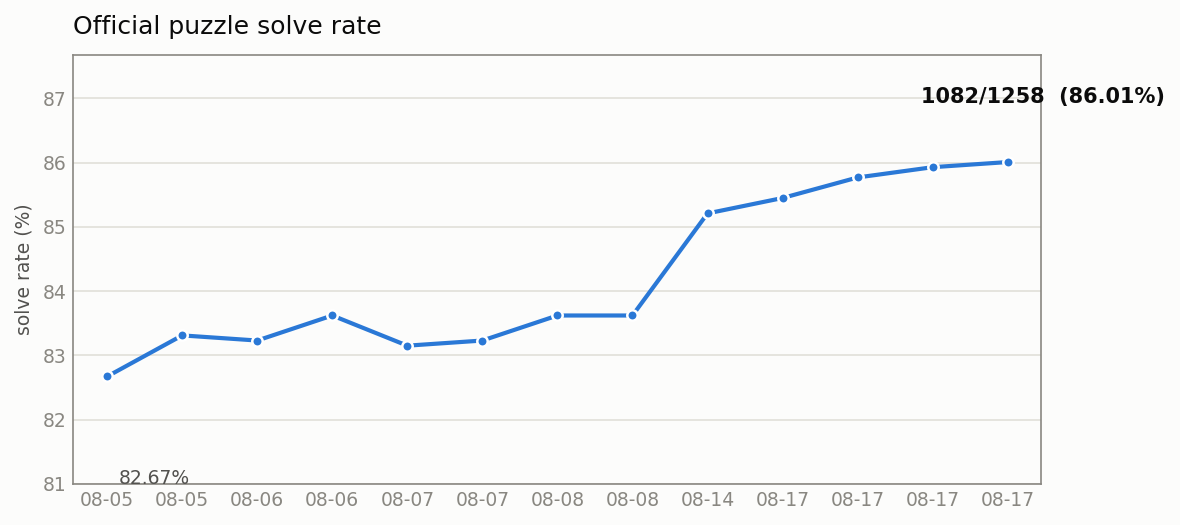
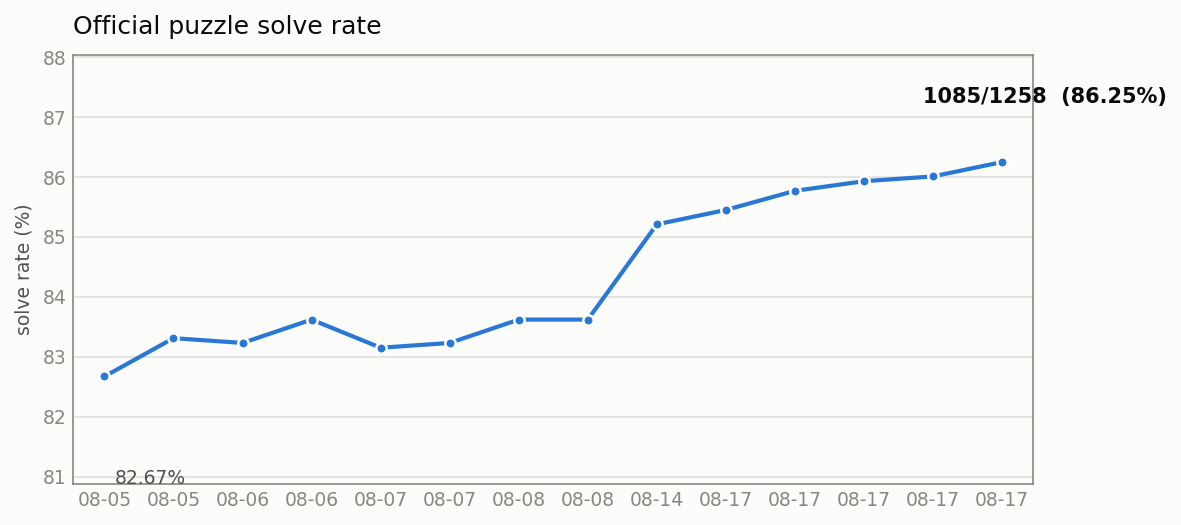
docs(solver-history): update trend to 1085/1258 (edge_csp iter 7)
differentiation + boxy/non_boxy propagation (PR #47) added +3 solves via
edge_csp (0690/0971/0984). Progress 1082 → 1085/1258 (86.25%).
Re-rendered PNG + /trend/ HTML.

Changed region(s): [[0.0305, 0.0914, 1.0, 0.9752], [0.1525, 0.0305, 0.3356, 0.061]]

diff --git a/web/public/trend/index.html b/web/public/trend/index.html
@@ -68,93 +68,98 @@ a { color: var(--series); }
   <h1>官方谜题求解能力变化</h1>
   <p class="sub">官方谜题 (puzzles/official, 排除 -answer 目录) · 共 1258 题 · 数据源 docs/solver-history.json</p>
   <div class="hero">
-    <span class="num">86.01%</span>
-    <span class="unit">1082 / 1258 题解出</span>
+    <span class="num">86.25%</span>
+    <span class="unit">1085 / 1258 题解出</span>
   </div>
-  <span class="delta">较上次 ▲ <span class="up">0.08%</span>（1082/1258）</span>
+  <span class="delta">较上次 ▲ <span class="up">0.24%</span>（1085/1258）</span>
   <div id="chart-wrap" style="position:relative"><div class="tooltip" id="tooltip" style="visibility:hidden"></div><svg id="chart" viewBox="0 0 840 380" role="img" aria-label="官方题求解率变化曲线">
 <line class="grid" x1="60" y1="340.0" x2="816" y2="340.0"/>
-<text class="axis" x="50" y="344.0" text-anchor="end">81.5%</text>
+<text class="axis" x="50" y="344.0" text-anchor="end">81.4%</text>
 <line class="grid" x1="60" y1="234.7" x2="816" y2="234.7"/>
 <text class="axis" x="50" y="238.7" text-anchor="end">83.4%</text>
 <line class="grid" x1="60" y1="129.3" x2="816" y2="129.3"/>
-<text class="axis" x="50" y="133.3" text-anchor="end">85.3%</text>
+<text class="axis" x="50" y="133.3" text-anchor="end">85.5%</text>
 <line class="grid" x1="60" y1="24.0" x2="816" y2="24.0"/>
-<text class="axis" x="50" y="28.0" text-anchor="end">87.2%</text>
-<polyline class="line" points="60.0,274.9 123.0,239.3 186.0,243.8 249.0,222.1 312.0,248.2 375.0,243.8 438.0,222.1 501.0,222.1 564.0,133.6 627.0,120.2 690.0,102.4 753.0,93.5 816.0,89.1" fill="none"/>
+<text class="axis" x="50" y="28.0" text-anchor="end">87.5%</text>
+<polyline class="line" points="60.0,274.9 118.2,241.7 176.3,245.9 234.5,225.6 292.6,250.0 350.8,245.9 408.9,225.6 467.1,225.6 525.2,143.1 583.4,130.6 641.5,114.0 699.7,105.7 757.8,101.5 816.0,89.1" fill="none"/>
 <circle class="point" cx="60.0" cy="274.9" r="4.5">
 <title>2026-08-05  33d32c5
 1040/1258  (82.67%)</title>
 </circle>
 <text class="axis" x="60.0" y="366" text-anchor="middle">08-05</text>
-<circle class="point" cx="123.0" cy="239.3" r="4.5">
+<circle class="point" cx="118.2" cy="241.7" r="4.5">
 <title>2026-08-05  4733f59
 1048/1258  (83.31%)</title>
 </circle>
-<text class="axis" x="123.0" y="366" text-anchor="middle">08-05</text>
-<circle class="point" cx="186.0" cy="243.8" r="4.5">
+<text class="axis" x="118.2" y="366" text-anchor="middle">08-05</text>
+<circle class="point" cx="176.3" cy="245.9" r="4.5">
 <title>2026-08-06  7e569e7
 1047/1258  (83.23%)</title>
 </circle>
-<text class="axis" x="186.0" y="366" text-anchor="middle">08-06</text>
-<circle class="point" cx="249.0" cy="222.1" r="4.5">
+<text class="axis" x="176.3" y="366" text-anchor="middle">08-06</text>
+<circle class="point" cx="234.5" cy="225.6" r="4.5">
 <title>2026-08-06  dfadfe3
 1052/1258  (83.62%)</title>
 </circle>
-<text class="axis" x="249.0" y="366" text-anchor="middle">08-06</text>
-<circle class="point" cx="312.0" cy="248.2" r="4.5">
+<text class="axis" x="234.5" y="366" text-anchor="middle">08-06</text>
+<circle class="point" cx="292.6" cy="250.0" r="4.5">
 <title>2026-08-07  6169df3
 1046/1258  (83.15%)</title>
 </circle>
-<text class="axis" x="312.0" y="366" text-anchor="middle">08-07</text>
-<circle class="point" cx="375.0" cy="243.8" r="4.5">
+<text class="axis" x="292.6" y="366" text-anchor="middle">08-07</text>
+<circle class="point" cx="350.8" cy="245.9" r="4.5">
 <title>2026-08-07  cd40cab
 1047/1258  (83.23%)</title>
 </circle>
-<text class="axis" x="375.0" y="366" text-anchor="middle">08-07</text>
-<circle class="point" cx="438.0" cy="222.1" r="4.5">
+<text class="axis" x="350.8" y="366" text-anchor="middle">08-07</text>
+<circle class="point" cx="408.9" cy="225.6" r="4.5">
 <title>2026-08-08  bd2f5f5
 1052/1258  (83.62%)</title>
 </circle>
-<text class="axis" x="438.0" y="366" text-anchor="middle">08-08</text>
-<circle class="point" cx="501.0" cy="222.1" r="4.5">
+<text class="axis" x="408.9" y="366" text-anchor="middle">08-08</text>
+<circle class="point" cx="467.1" cy="225.6" r="4.5">
 <title>2026-08-08  shape-cap-aog
 1052/1258  (83.62%)</title>
 </circle>
-<text class="axis" x="501.0" y="366" text-anchor="middle">08-08</text>
-<circle class="point" cx="564.0" cy="133.6" r="4.5">
+<text class="axis" x="467.1" y="366" text-anchor="middle">08-08</text>
+<circle class="point" cx="525.2" cy="143.1" r="4.5">
 <title>2026-08-14  edge-csp-solver
 1072/1258  (85.21%)</title>
 </circle>
-<text class="axis" x="564.0" y="366" text-anchor="middle">08-14</text>
-<circle class="point" cx="627.0" cy="120.2" r="4.5">
+<text class="axis" x="525.2" y="366" text-anchor="middle">08-14</text>
+<circle class="point" cx="583.4" cy="130.6" r="4.5">
 <title>2026-08-17  8758659
 1075/1258  (85.45%)</title>
 </circle>
-<text class="axis" x="627.0" y="366" text-anchor="middle">08-17</text>
-<circle class="point" cx="690.0" cy="102.4" r="4.5">
+<text class="axis" x="583.4" y="366" text-anchor="middle">08-17</text>
+<circle class="point" cx="641.5" cy="114.0" r="4.5">
 <title>2026-08-17  dbe2f65
 1079/1258  (85.77%)</title>
 </circle>
-<text class="axis" x="690.0" y="366" text-anchor="middle">08-17</text>
-<circle class="point" cx="753.0" cy="93.5" r="4.5">
+<text class="axis" x="641.5" y="366" text-anchor="middle">08-17</text>
+<circle class="point" cx="699.7" cy="105.7" r="4.5">
 <title>2026-08-17  04ea400
 1081/1258  (85.93%)</title>
 </circle>
-<text class="axis" x="753.0" y="366" text-anchor="middle">08-17</text>
-<circle class="point" cx="816.0" cy="89.1" r="4.5">
+<text class="axis" x="699.7" y="366" text-anchor="middle">08-17</text>
+<circle class="point" cx="757.8" cy="101.5" r="4.5">
 <title>2026-08-17  d3d9c52
 1082/1258  (86.01%)</title>
+</circle>
+<text class="axis" x="757.8" y="366" text-anchor="middle">08-17</text>
+<circle class="point" cx="816.0" cy="89.1" r="4.5">
+<title>2026-08-17  150005f
+1085/1258  (86.25%)</title>
 </circle>
 <text class="axis" x="816.0" y="366" text-anchor="middle">08-17</text>
 <line class="crosshair" id="crosshair" y1="0" y2="0" visibility="hidden"/>
 </svg></div>
-  <table><thead><tr><th>日期</th><th>commit</th><th class='num'>通过</th><th class='num'>占比</th></tr></thead><tbody><tr class="latest"><td>2026-08-17</td><td>d3d9c52</td><td class="num">1082/1258</td><td class="num">86.01%</td></tr><tr><td>2026-08-17</td><td>04ea400</td><td class="num">1081/1258</td><td class="num">85.93%</td></tr><tr><td>2026-08-17</td><td>dbe2f65</td><td class="num">1079/1258</td><td class="num">85.77%</td></tr><tr><td>2026-08-17</td><td>8758659</td><td class="num">1075/1258</td><td class="num">85.45%</td></tr><tr><td>2026-08-14</td><td>edge-csp-solver</td><td class="num">1072/1258</td><td class="num">85.21%</td></tr><tr><td>2026-08-08</td><td>shape-cap-aog</td><td class="num">1052/1258</td><td class="num">83.62%</td></tr><tr><td>2026-08-08</td><td>bd2f5f5</td><td class="num">1052/1258</td><td class="num">83.62%</td></tr><tr><td>2026-08-07</td><td>cd40cab</td><td class="num">1047/1258</td><td class="num">83.23%</td></tr><tr><td>2026-08-07</td><td>6169df3</td><td class="num">1046/1258</td><td class="num">83.15%</td></tr><tr><td>2026-08-06</td><td>dfadfe3</td><td class="num">1052/1258</td><td class="num">83.62%</td></tr><tr><td>2026-08-06</td><td>7e569e7</td><td class="num">1047/1258</td><td class="num">83.23%</td></tr><tr><td>2026-08-05</td><td>4733f59</td><td class="num">1048/1258</td><td class="num">83.31%</td></tr><tr><td>2026-08-05</td><td>33d32c5</td><td class="num">1040/1258</td><td class="num">82.67%</td></tr></tbody></table>
+  <table><thead><tr><th>日期</th><th>commit</th><th class='num'>通过</th><th class='num'>占比</th></tr></thead><tbody><tr class="latest"><td>2026-08-17</td><td>150005f</td><td class="num">1085/1258</td><td class="num">86.25%</td></tr><tr><td>2026-08-17</td><td>d3d9c52</td><td class="num">1082/1258</td><td class="num">86.01%</td></tr><tr><td>2026-08-17</td><td>04ea400</td><td class="num">1081/1258</td><td class="num">85.93%</td></tr><tr><td>2026-08-17</td><td>dbe2f65</td><td class="num">1079/1258</td><td class="num">85.77%</td></tr><tr><td>2026-08-17</td><td>8758659</td><td class="num">1075/1258</td><td class="num">85.45%</td></tr><tr><td>2026-08-14</td><td>edge-csp-solver</td><td class="num">1072/1258</td><td class="num">85.21%</td></tr><tr><td>2026-08-08</td><td>shape-cap-aog</td><td class="num">1052/1258</td><td class="num">83.62%</td></tr><tr><td>2026-08-08</td><td>bd2f5f5</td><td class="num">1052/1258</td><td class="num">83.62%</td></tr><tr><td>2026-08-07</td><td>cd40cab</td><td class="num">1047/1258</td><td class="num">83.23%</td></tr><tr><td>2026-08-07</td><td>6169df3</td><td class="num">1046/1258</td><td class="num">83.15%</td></tr><tr><td>2026-08-06</td><td>dfadfe3</td><td class="num">1052/1258</td><td class="num">83.62%</td></tr><tr><td>2026-08-06</td><td>7e569e7</td><td class="num">1047/1258</td><td class="num">83.23%</td></tr><tr><td>2026-08-05</td><td>4733f59</td><td class="num">1048/1258</td><td class="num">83.31%</td></tr><tr><td>2026-08-05</td><td>33d32c5</td><td class="num">1040/1258</td><td class="num">82.67%</td></tr></tbody></table>
   <p class="sub" style="margin-top:24px">曲线纵轴为缩放后的求解率区间（非 0–100），
   以突出小幅变化；完整数值见下表与仓库内 <code>docs/solver-history.json</code>。</p>
 </div>
 <script>
-const DATA = [{"date": "2026-08-05", "commit": "33d32c5", "passed": 1040, "total": 1258, "pct": 82.67}, {"date": "2026-08-05", "commit": "4733f59", "passed": 1048, "total": 1258, "pct": 83.31}, {"date": "2026-08-06", "commit": "7e569e7", "passed": 1047, "total": 1258, "pct": 83.23}, {"date": "2026-08-06", "commit": "dfadfe3", "passed": 1052, "total": 1258, "pct": 83.62}, {"date": "2026-08-07", "commit": "6169df3", "passed": 1046, "total": 1258, "pct": 83.15}, {"date": "2026-08-07", "commit": "cd40cab", "passed": 1047, "total": 1258, "pct": 83.23}, {"date": "2026-08-08", "commit": "bd2f5f5", "passed": 1052, "total": 1258, "pct": 83.62}, {"date": "2026-08-08", "commit": "shape-cap-aog", "passed": 1052, "total": 1258, "pct": 83.62}, {"date": "2026-08-14", "commit": "edge-csp-solver", "passed": 1072, "total": 1258, "pct": 85.21}, {"date": "2026-08-17", "commit": "8758659", "passed": 1075, "total": 1258, "pct": 85.45}, {"date": "2026-08-17", "commit": "dbe2f65", "passed": 1079, "total": 1258, "pct": 85.77}, {"date": "2026-08-17", "commit": "04ea400", "passed": 1081, "total": 1258, "pct": 85.93}, {"date": "2026-08-17", "commit": "d3d9c52", "passed": 1082, "total": 1258, "pct": 86.01}];
+const DATA = [{"date": "2026-08-05", "commit": "33d32c5", "passed": 1040, "total": 1258, "pct": 82.67}, {"date": "2026-08-05", "commit": "4733f59", "passed": 1048, "total": 1258, "pct": 83.31}, {"date": "2026-08-06", "commit": "7e569e7", "passed": 1047, "total": 1258, "pct": 83.23}, {"date": "2026-08-06", "commit": "dfadfe3", "passed": 1052, "total": 1258, "pct": 83.62}, {"date": "2026-08-07", "commit": "6169df3", "passed": 1046, "total": 1258, "pct": 83.15}, {"date": "2026-08-07", "commit": "cd40cab", "passed": 1047, "total": 1258, "pct": 83.23}, {"date": "2026-08-08", "commit": "bd2f5f5", "passed": 1052, "total": 1258, "pct": 83.62}, {"date": "2026-08-08", "commit": "shape-cap-aog", "passed": 1052, "total": 1258, "pct": 83.62}, {"date": "2026-08-14", "commit": "edge-csp-solver", "passed": 1072, "total": 1258, "pct": 85.21}, {"date": "2026-08-17", "commit": "8758659", "passed": 1075, "total": 1258, "pct": 85.45}, {"date": "2026-08-17", "commit": "dbe2f65", "passed": 1079, "total": 1258, "pct": 85.77}, {"date": "2026-08-17", "commit": "04ea400", "passed": 1081, "total": 1258, "pct": 85.93}, {"date": "2026-08-17", "commit": "d3d9c52", "passed": 1082, "total": 1258, "pct": 86.01}, {"date": "2026-08-17", "commit": "150005f", "passed": 1085, "total": 1258, "pct": 86.25}];
 const svg = document.getElementById('chart');
 const cross = document.getElementById('crosshair');
 const tip = document.getElementById('tooltip');
